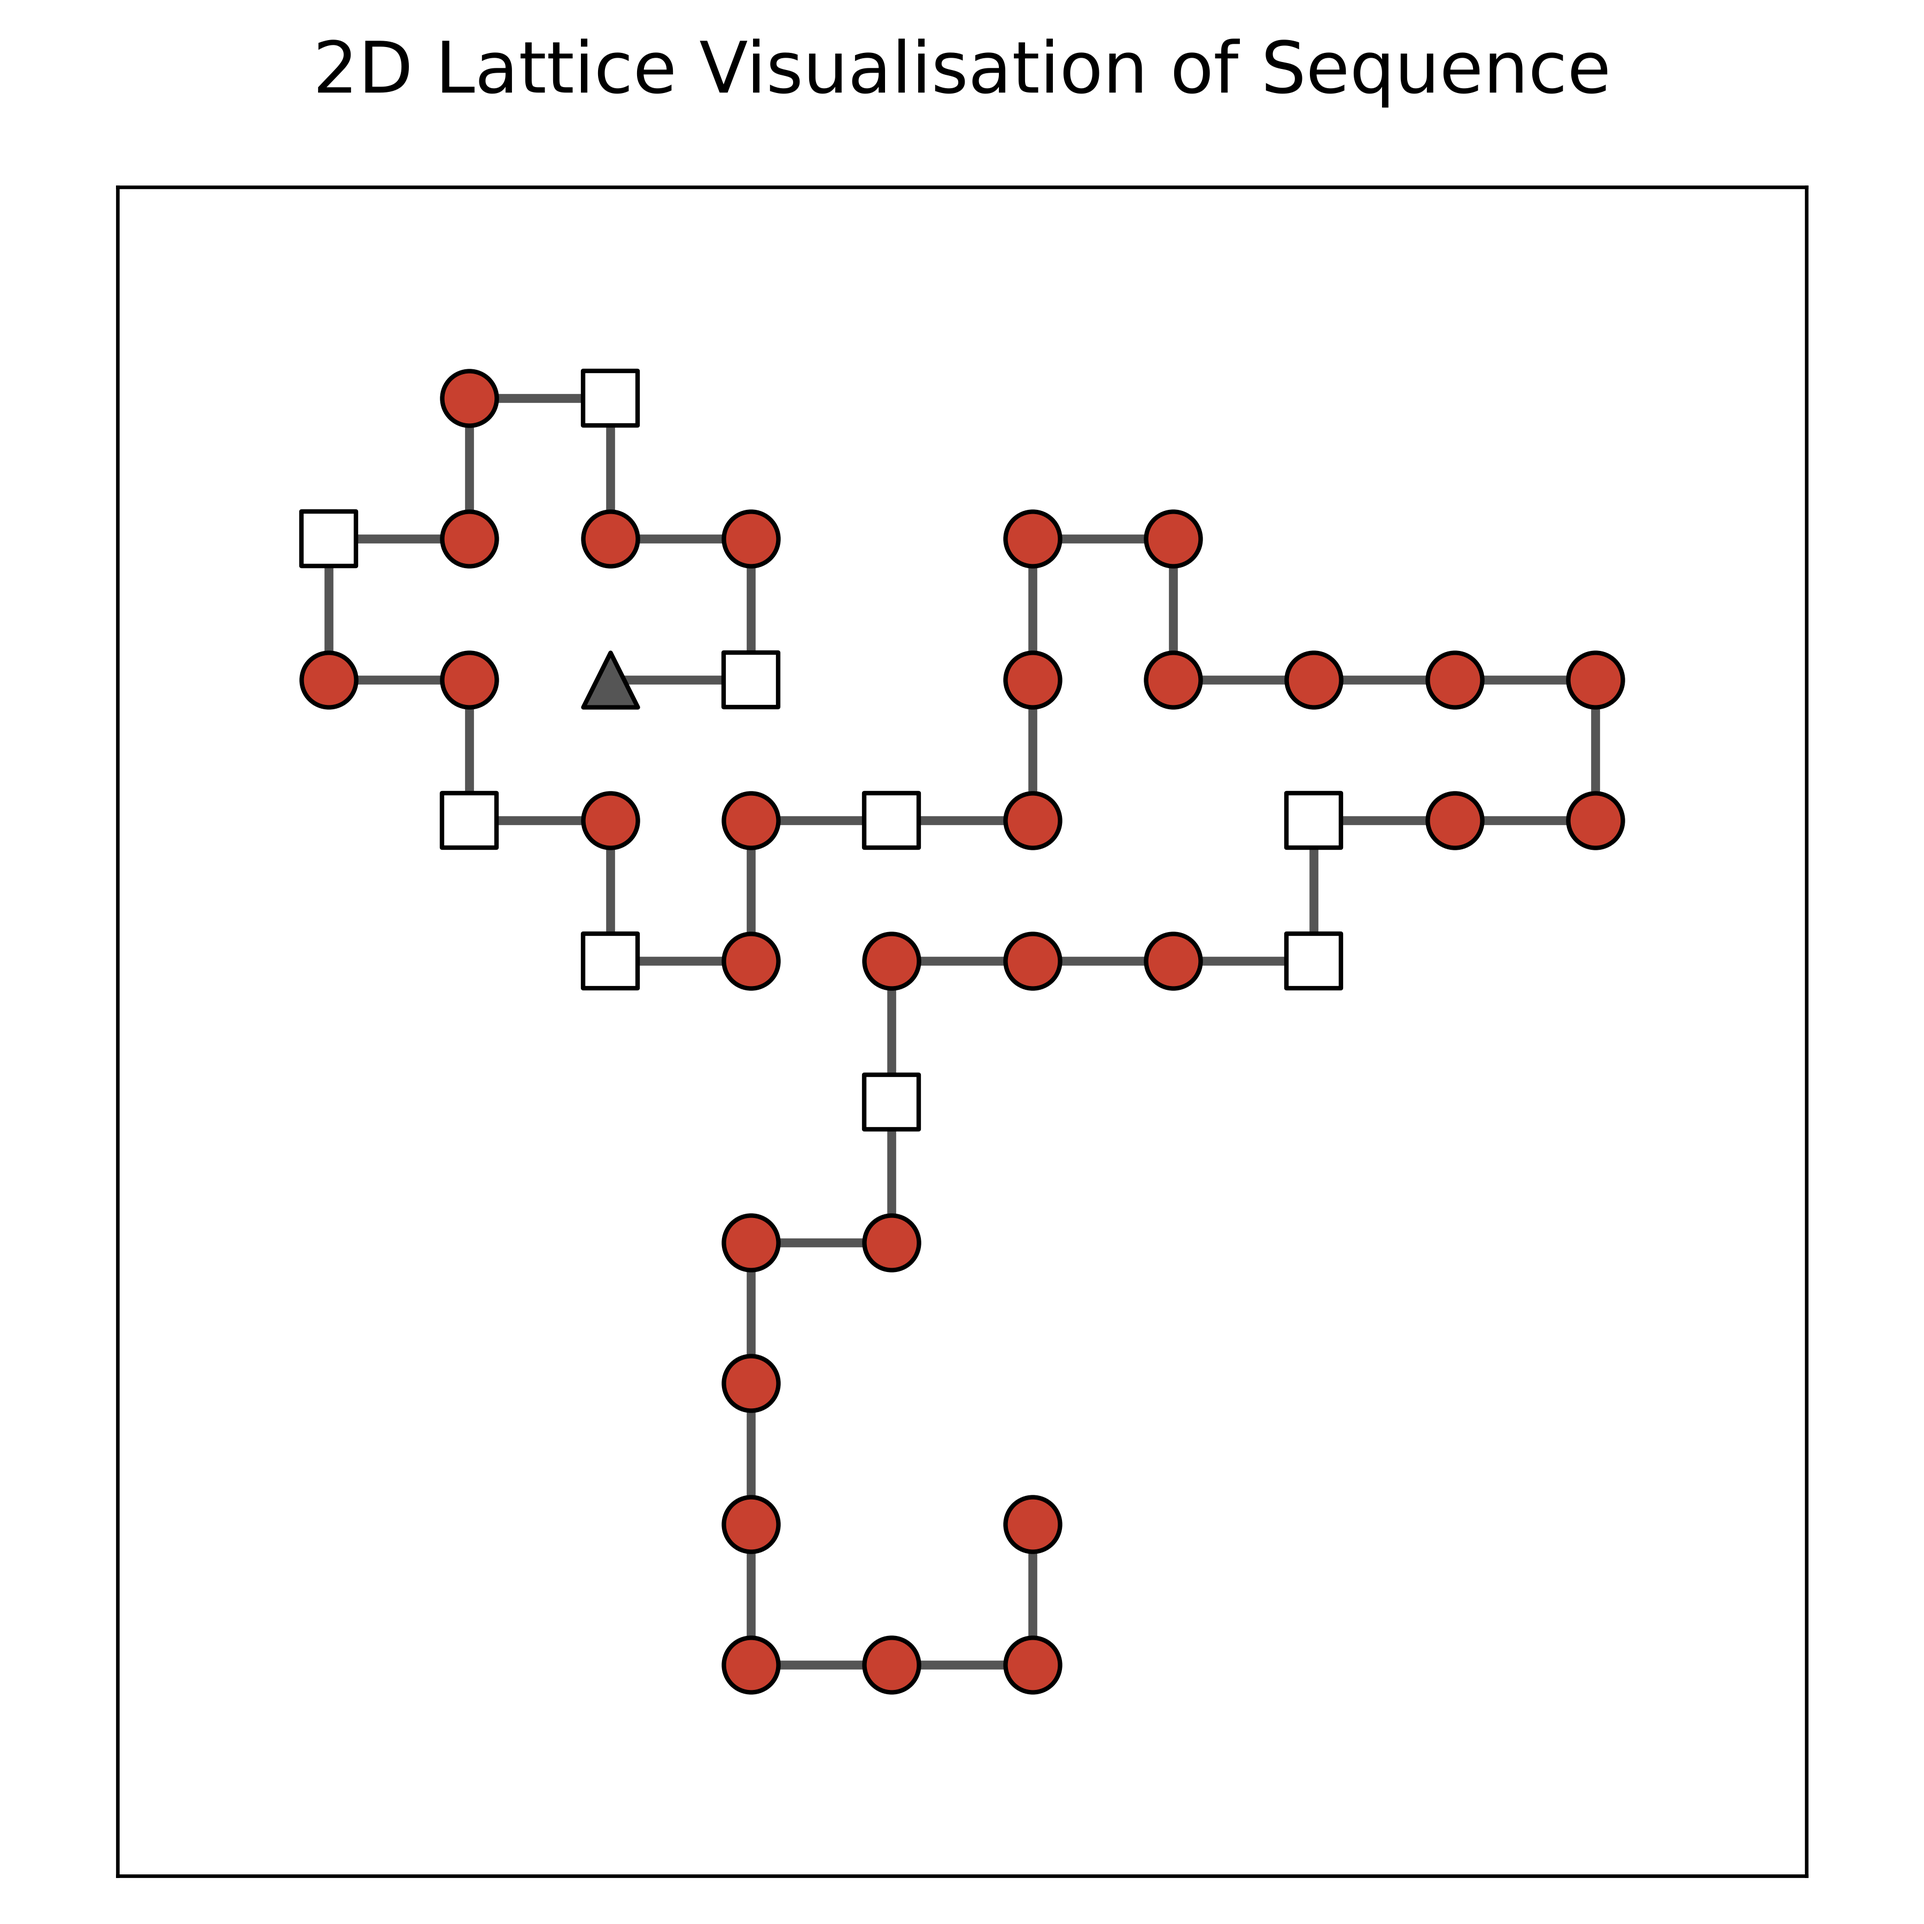
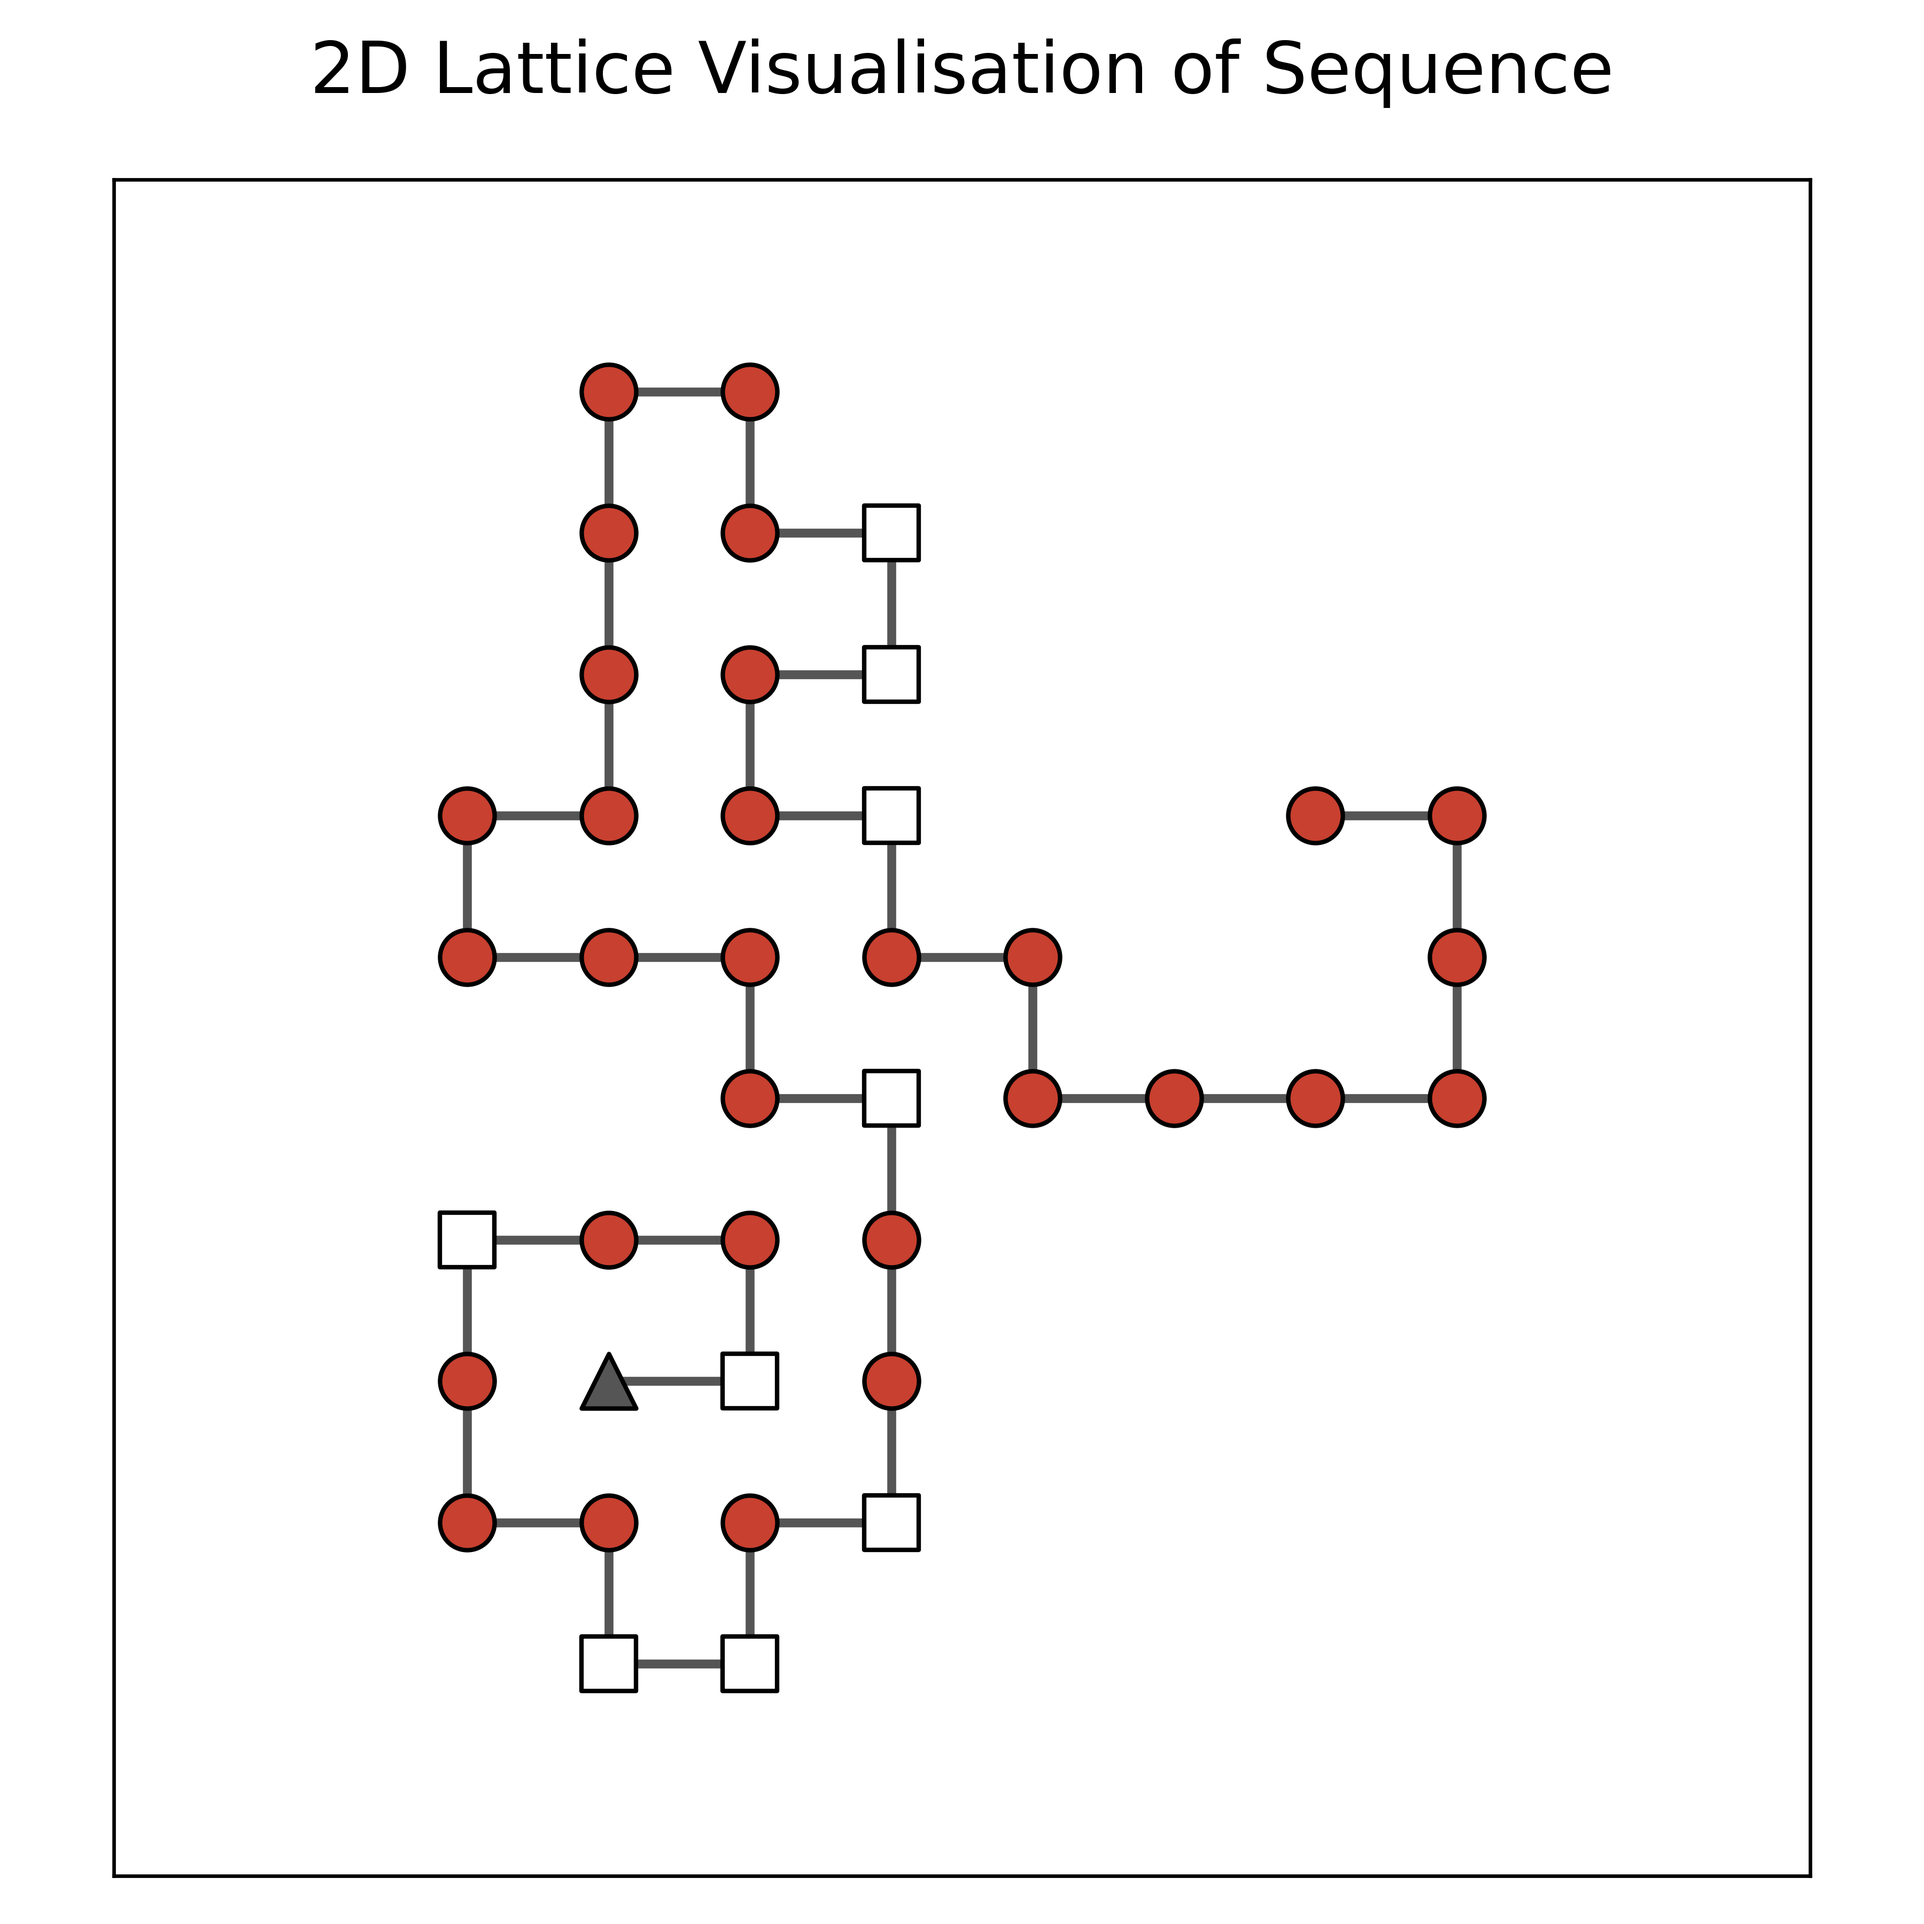
accidentally was on main

diff --git a/word_tree.py b/word_tree.py
@@ -66,4 +66,4 @@ def turns_to_path(turns):
 def traverse_word_tree(word_tree, i):
     for index in i:
         word_tree = word_tree[int(index)]
-    return word_tree
+    return word_tree[0]

diff --git a/testing.py b/testing.py
@@ -56,4 +56,4 @@ def test_suite():
         print("Test", i + 1, "Passed!")
         
     
-#test_suite()
+test_suite()
